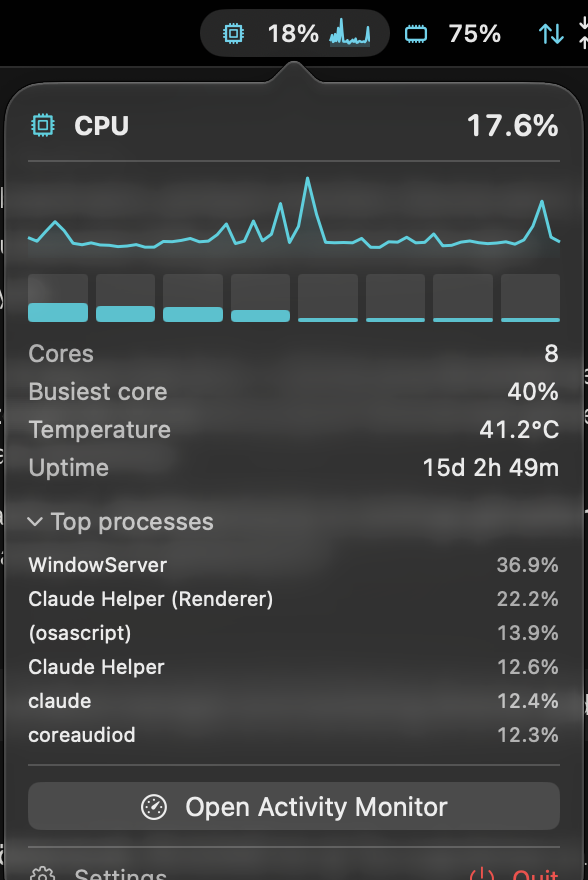
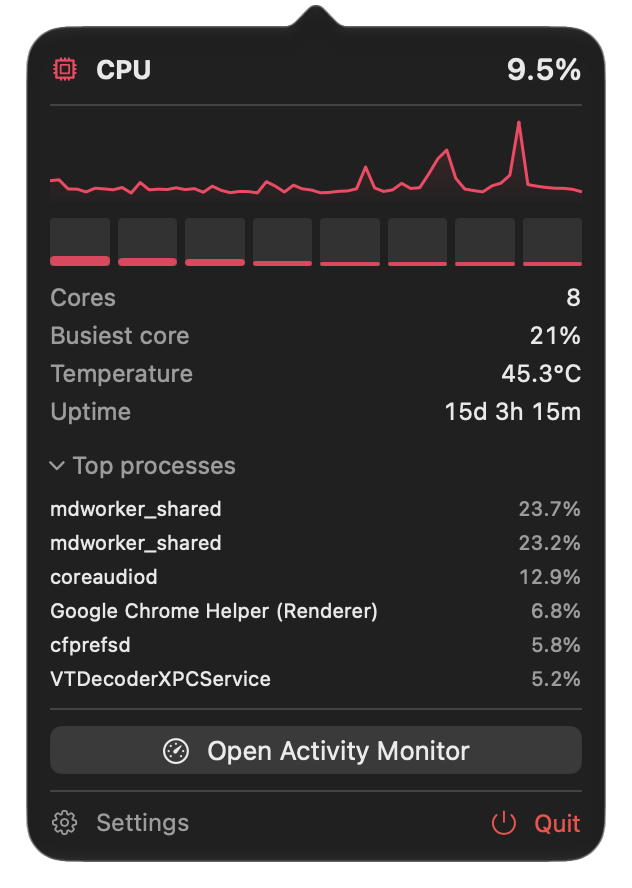
Shoot the screenshots properly this time
The first set was functional and looked it. Teal where the product's own
accent is pink, popovers cropped through their own footers, the desktop
wallpaper showing behind them, and a Dashboard with four cards and an
empty cell.

Every window is now captured by its window id rather than by a screen
rectangle, so each one arrives isolated on transparency with no
wallpaper, no neighbouring app, and nothing sliced off — which is also
what makes them usable on a site later. The accent is the brand pink the
app ships with. The Dashboard holds six cards in three full rows, and the
menu bar and network readings were taken under real load rather than
against an idle machine, so the sparkline has a shape and the throughput
is a number.

Added the surfaces that had no picture at all: the Attention Log and
Diagnostics now appear in the README, and General settings, the memory
and network popovers are in docs/assets for the site.

diff --git a/README.md b/README.md
@@ -67,7 +67,7 @@ down, and so is [how to run them yourself](CONTRIBUTING.md#performance-validatio
 ## Modules
 
 <div align="center">
-  <img src="docs/assets/menubar.png" alt="Mectrics in the macOS menu bar: CPU with a live sparkline, memory, network throughput, and the Dashboard icon holding everything else" width="570">
+  <img src="docs/assets/menubar.png" alt="Mectrics in the macOS menu bar: CPU with a live sparkline, memory, network throughput, and the Dashboard icon holding everything else" width="548">
 </div>
 
 Unavailable hardware hides itself — no Fans module on a fanless MacBook Air, no Battery on
@@ -133,7 +133,7 @@ throughput for Disk, and so on.
 - **Three-step onboarding**, accent themes, and launch at login.
 
 <div align="center">
-  <img src="docs/assets/dashboard.png" alt="The Dashboard: cards for Battery, Disk, GPU and the Mac itself, opened from a single menu bar icon" width="340">
+  <img src="docs/assets/dashboard.png" alt="The Dashboard: cards for CPU, memory, battery, network, disk and the Mac itself, opened from a single menu bar icon" width="346">
   <p><sub><b>The Dashboard</b> — everything you did not put in the menu bar, one click away</sub></p>
 </div>
 
@@ -146,6 +146,16 @@ throughput for Disk, and so on.
 <td width="50%" valign="top">
   <img src="docs/assets/settings-alerts.png" alt="The Alerts settings pane: threshold rules for CPU, memory, battery, disk, GPU, and temperature, each with a sustained duration" width="100%">
   <p align="center"><sub><b>Alert rules</b> — with the current reading next to each threshold</sub></p>
+</td>
+</tr>
+<tr>
+<td width="50%" valign="top">
+  <img src="docs/assets/attention-log.png" alt="The Attention Log: a local record of alert conditions with when each started, how long it lasted, and where it was delivered" width="100%">
+  <p align="center"><sub><b>Attention Log</b> — what tripped, when, and for how long</sub></p>
+</td>
+<td width="50%" valign="top">
+  <img src="docs/assets/diagnostics.png" alt="The Diagnostics window: a local-only system summary showing hardware, modules, alert rules and sampling state as plain text" width="100%">
+  <p align="center"><sub><b>Diagnostics</b> — a local-only summary you can copy or export</sub></p>
 </td>
 </tr>
 </table>
